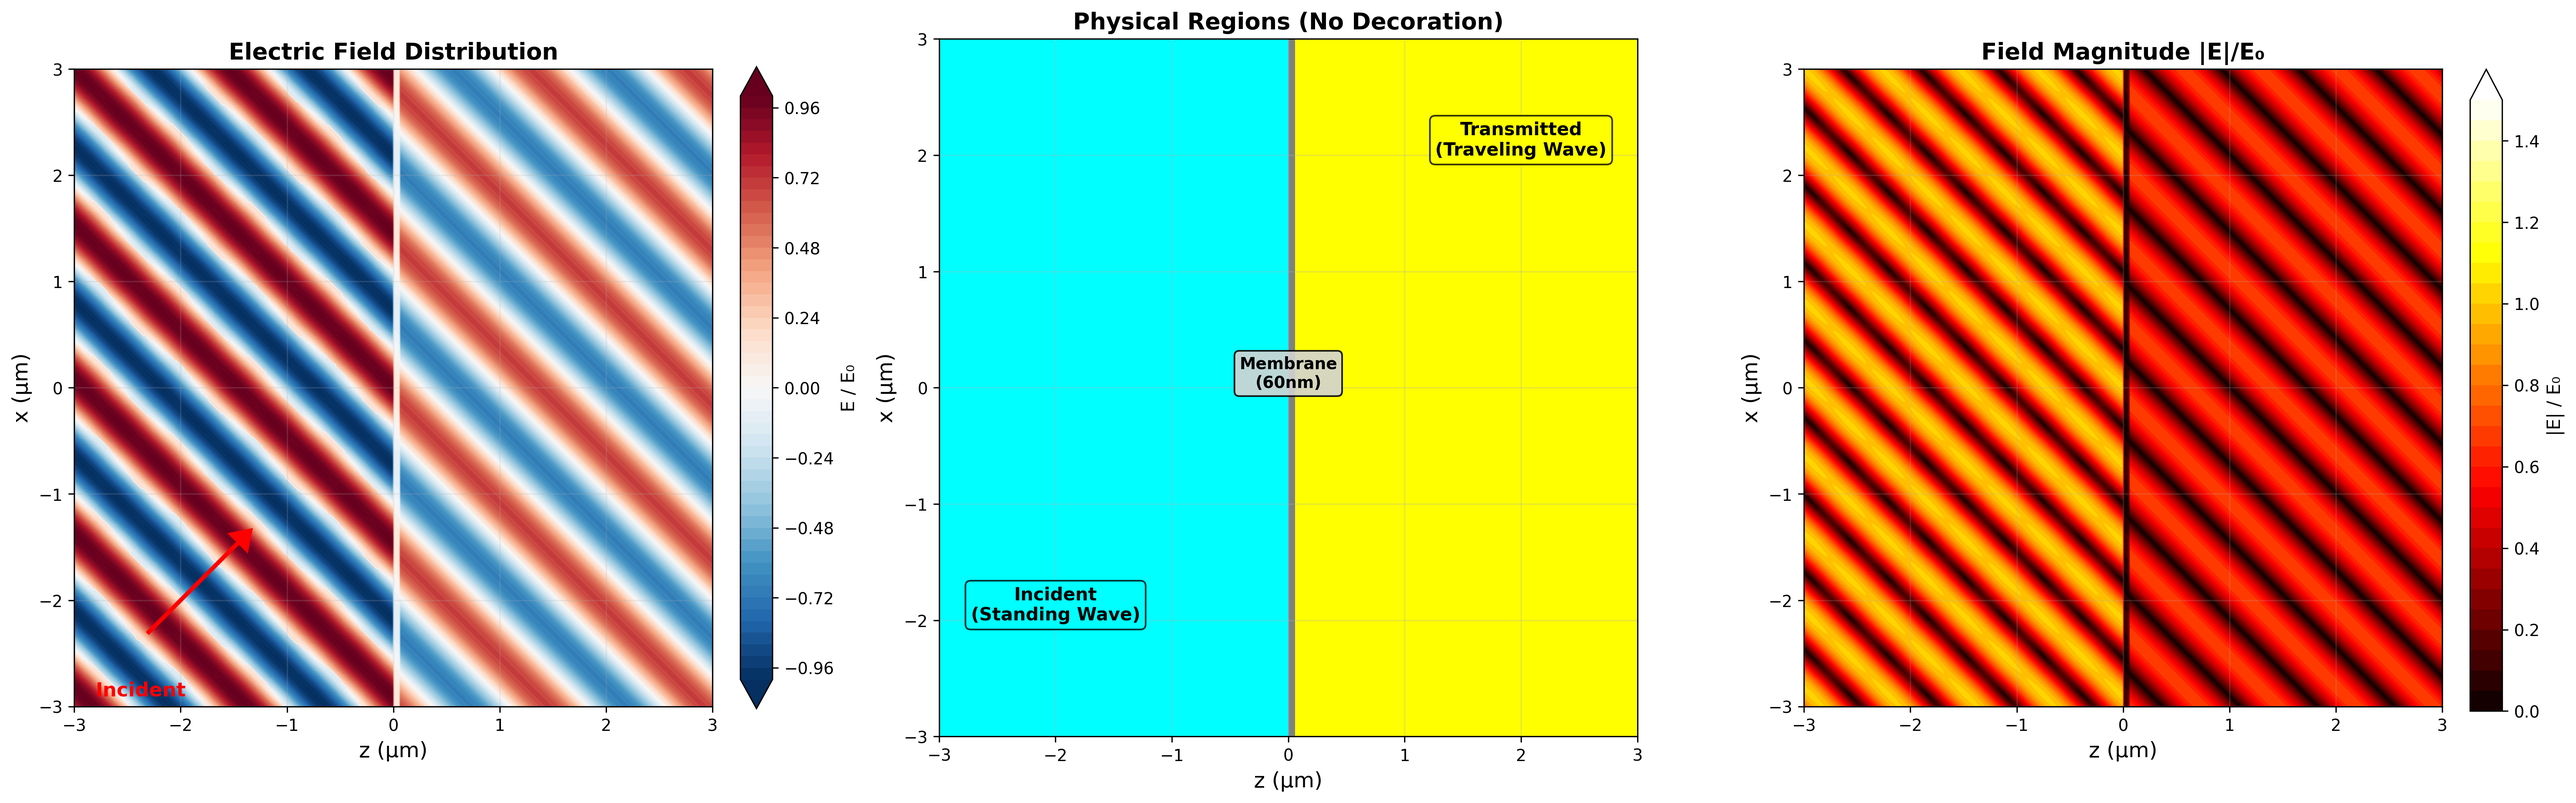
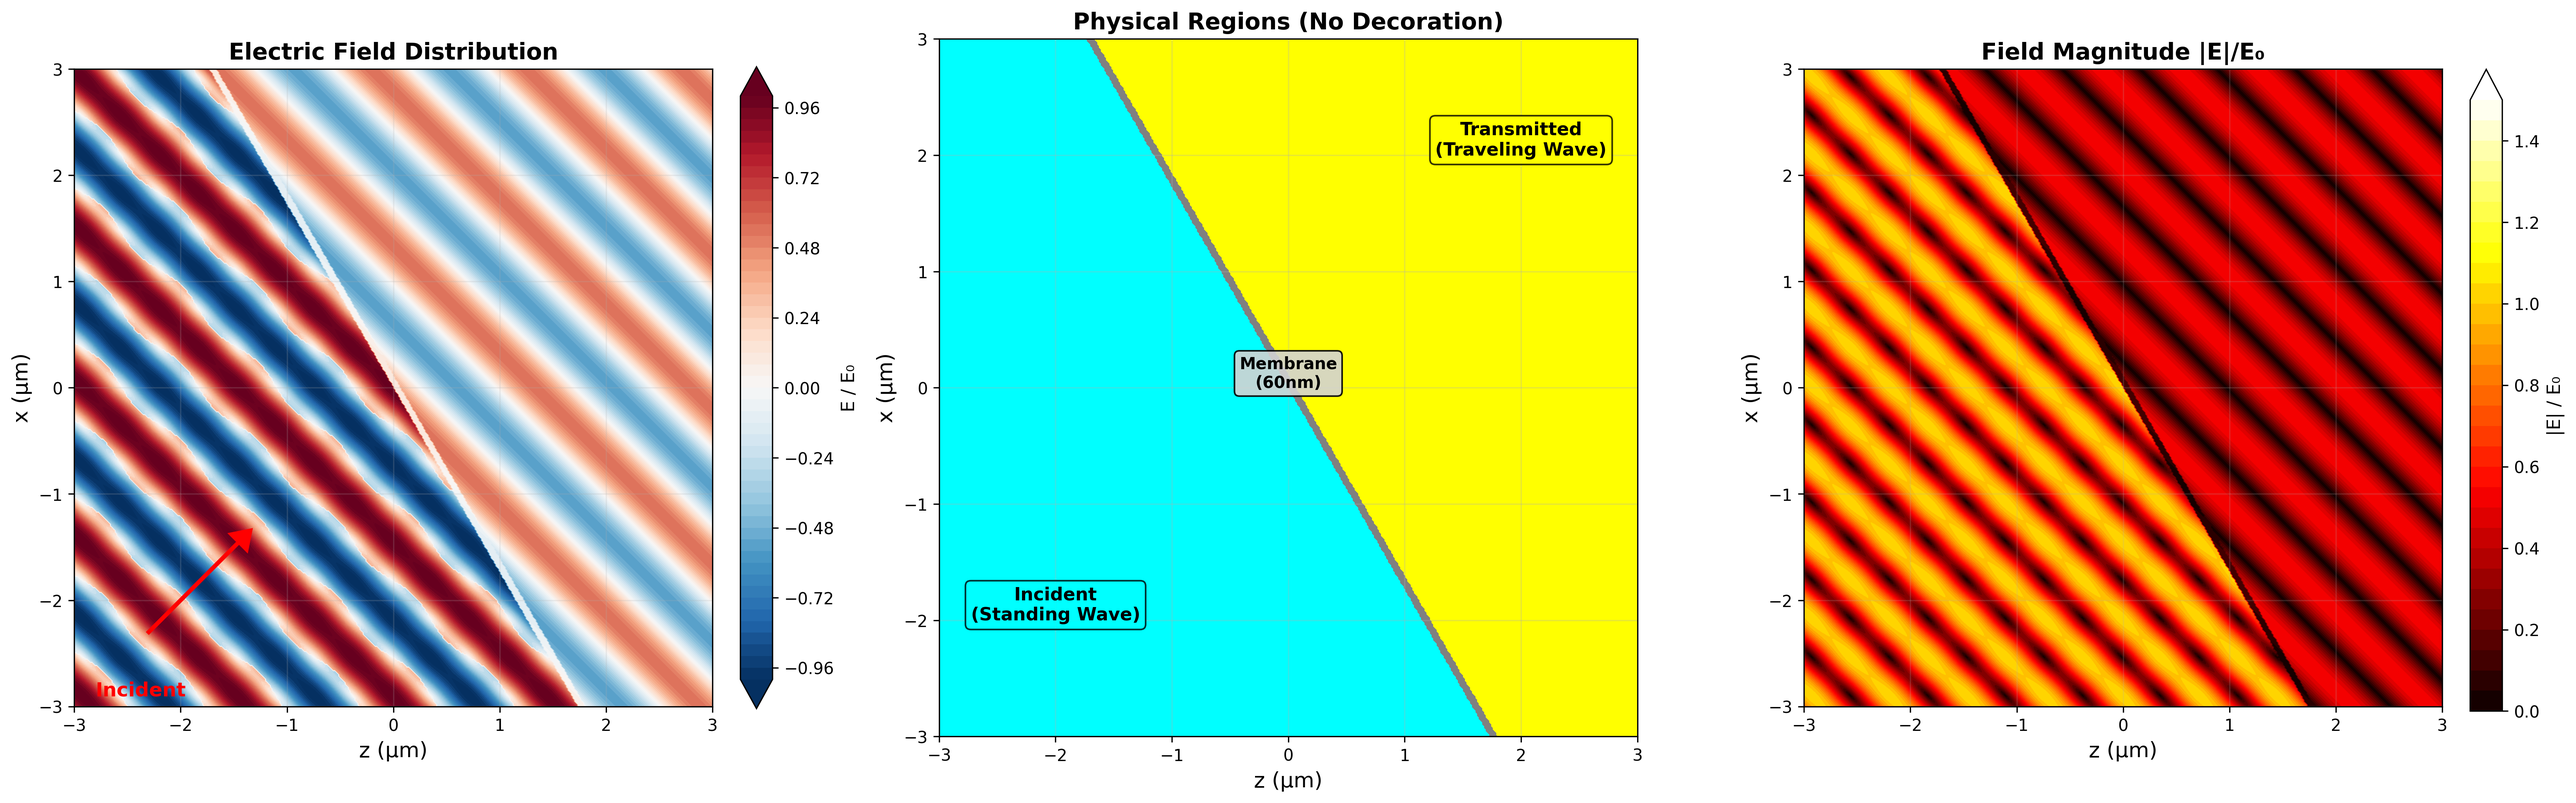
Add electric field calculation script and updated visualization results
- Add caculation_efield_fig2b.py: New script for figure 2b field calculations
- Update field_CLEAN_VERSION.png: Refreshed electromagnetic field visualization
- Add field_final_correct.png: Corrected field visualization output
- Update test1.py: Adjust theta_foil parameter from 0 to 30 degrees

🤖 Generated with [Claude Code](https://claude.com/claude-code)

diff --git a/caculation_efield_fig2b.py b/caculation_efield_fig2b.py
@@ -1,0 +1,214 @@
+import numpy as np
+import matplotlib.pyplot as plt
+
+# 物理参数
+c = 299792458.0
+WAVELENGTH = 1030e-9
+E0 = 1e9
+n = 3.6
+d = 60e-9
+
+# 关键配置：让薄膜接近垂直，激光斜入射
+theta_foil = 35    # 薄膜法向几乎水平 → 薄膜接近垂直
+theta_laser = 65   # 激光从左下斜入射
+
+def fresnel_p(theta_in, n):
+    """p偏振Fresnel系数"""
+    cos_i = np.cos(theta_in)
+    sin_i = np.sin(theta_in)
+    sin_t = sin_i / n
+    
+    if abs(sin_t) > 1:
+        return -1.0, 0.0
+    
+    cos_t = np.sqrt(1 - sin_t**2)
+    r = (n * cos_i - cos_t) / (n * cos_i + cos_t)
+    t = 2 * cos_i / (n * cos_i + cos_t)
+    
+    return r, t
+
+def calc_field_final(X, Z):
+    """
+    最终版本：确保右侧无波节
+    """
+    theta_f = np.radians(theta_foil)
+    theta_l = np.radians(theta_laser)
+    
+    omega = 2 * np.pi * c / WAVELENGTH
+    k0 = omega / c
+    
+    # 入射波矢
+    kx_in = k0 * np.sin(theta_l)
+    kz_in = k0 * np.cos(theta_l)
+    k_in = np.array([kx_in, kz_in])
+    
+    # 薄膜法向（theta_foil大时接近水平）
+    nx = np.sin(theta_f)
+    nz = np.cos(theta_f)
+    n_foil = np.array([nx, nz])
+    
+    # 计算入射角
+    cos_theta_in = abs(np.dot(k_in, n_foil)) / k0
+    theta_in = np.arccos(np.clip(cos_theta_in, 0, 1))
+    
+    # Fresnel系数（含多次反射）
+    r12, t12 = fresnel_p(theta_in, n)
+    
+    sin_t = np.sin(theta_in) / n
+    cos_t = np.sqrt(1 - sin_t**2)
+    theta_t = np.arcsin(sin_t)
+    
+    r21, t21 = fresnel_p(theta_t, 1/n)
+    
+    # 多次反射总系数
+    phi = 2 * n * k0 * d * cos_t
+    denom = 1 - r21**2 * np.exp(1j * phi)
+    r_eff = r12 + t12 * t21 * r21 * np.exp(1j * phi) / denom
+    t_eff = t12 * t21 * np.exp(1j * phi/2) / denom
+    
+    # 点到薄膜的距离（薄膜前表面在原点）
+    dist = X * nx + Z * nz
+    
+    # 严格区域划分
+    left = (dist < -1e-10)          # 左侧：入射+反射
+    right = (dist > d + 1e-10)      # 右侧：仅透射
+    membrane = ~left & ~right       # 薄膜
+    
+    # 初始化
+    E = np.zeros_like(X, dtype=complex)
+    
+    # ==========================================
+    # 左侧：入射波 + 反射波（驻波）
+    # ==========================================
+    # 入射波相位
+    phase_in = kx_in * X + kz_in * Z
+    E_in = E0 * np.exp(1j * phase_in)
+    
+    # 反射波矢（关于法线镜像 - 这是关键！）
+    k_dot_n = np.dot(k_in, n_foil)
+    k_ref = k_in - 2 * k_dot_n * n_foil
+    kx_ref = k_ref[0]
+    kz_ref = k_ref[1]
+    
+    phase_ref = kx_ref * X + kz_ref * Z
+    E_ref = r_eff * E0 * np.exp(1j * phase_ref)
+    
+    E[left] = E_in[left] + E_ref[left]
+    
+    # ==========================================
+    # 薄膜内：折射场（考虑多次反射）
+    # ==========================================
+    # 在薄膜内，需要使用折射后的波矢
+    # 折射定律：平行于界面的分量保持不变
+    # k_parallel = k0 * sin(theta_in)
+    # 在薄膜内：k_perp = n*k0*cos(theta_t)
+
+    # 方法：直接用入射波矢和折射率计算薄膜内的场
+    # 注意这是简化，实际应该考虑折射后的传播方向
+    k_membrane = n * k0
+    phase_mem = k_membrane * (kx_in/k0 * X + kz_in/k0 * Z)
+
+    # 薄膜内有入射和多次反射的叠加，这里用有效透射系数
+    E[membrane] = t12 * E0 * np.exp(1j * phase_mem[membrane])
+
+    # ==========================================
+    # 右侧：仅透射波（行波 - 不应有波节！）
+    # ==========================================
+    # 关键：透射波应该是纯行波，相位连续
+    # 考虑通过薄膜的总相位变化
+    phase_trans = kx_in * X + kz_in * Z
+    E[right] = t_eff * E0 * np.exp(1j * phase_trans[right])
+    
+    return np.real(E), left, membrane, right
+
+
+# 生成网格 (修正：确保坐标系一致)
+x = np.linspace(-2e-6, 2e-6, 1000)
+z = np.linspace(-2e-6, 2e-6, 1000)
+Z, X = np.meshgrid(z, x)  # 注意：Z对应横轴，X对应纵轴
+
+print(f"计算场分布（薄膜倾角={theta_foil}°）...")
+E_field, m_left, m_mem, m_right = calc_field_final(X, Z)
+
+# 归一化
+E_norm = E_field / E0
+
+# 绘图
+fig, axes = plt.subplots(1, 2, figsize=(18, 9))
+
+# 左图：电场分布
+ax = axes[0]
+im = ax.imshow(E_norm, extent=[-2, 2, -2, 2],
+               cmap='RdBu_r', vmin=-1.5, vmax=1.5,
+               aspect='equal', origin='lower', 
+               interpolation='bilinear')
+
+# 画薄膜位置
+theta_f_rad = np.radians(theta_foil)
+z_line = np.linspace(-3, 3, 100)
+x_line = -z_line * np.cos(theta_f_rad) / np.sin(theta_f_rad)
+ax.plot(z_line, x_line, 'k--', linewidth=3, alpha=0.9)
+
+# 激光方向箭头
+theta_l_rad = np.radians(theta_laser)
+ax.arrow(-1.5, -1.5, 
+         0.5*np.sin(theta_l_rad), 0.5*np.cos(theta_l_rad),
+         head_width=0.12, head_length=0.08, 
+         fc='red', ec='red', linewidth=2, zorder=10)
+ax.text(-1.6, -1.7, 'Laser', fontsize=12, color='red', fontweight='bold')
+
+ax.set_xlabel('z (μm)', fontsize=14, fontweight='bold')
+ax.set_ylabel('x (μm)', fontsize=14, fontweight='bold')
+ax.set_title(f'Electric Field (θ_foil={theta_foil}°, θ_laser={theta_laser}°)', 
+             fontsize=14, fontweight='bold')
+ax.set_xlim(-2, 2)
+ax.set_ylim(-2, 2)
+ax.grid(True, alpha=0.2)
+
+cbar = plt.colorbar(im, ax=ax, label='E / E₀', fraction=0.046, pad=0.04)
+
+# 右图：区域验证
+ax = axes[1]
+region = np.zeros_like(X)
+region[m_left] = 1
+region[m_mem] = 2
+region[m_right] = 3
+
+from matplotlib.colors import ListedColormap
+cmap_reg = ListedColormap(['white', 'cyan', 'gray', 'yellow'])
+im2 = ax.contourf(Z*1e6, X*1e6, region,
+                  levels=[0, 0.5, 1.5, 2.5, 3.5],
+                  cmap=cmap_reg)
+
+ax.plot(z_line, x_line, 'k--', linewidth=3)
+
+ax.text(-1.3, 0, 'LEFT\n(Standing\nWave)', fontsize=12,
+        bbox=dict(boxstyle='round', facecolor='cyan', alpha=0.7),
+        ha='center', fontweight='bold')
+ax.text(1.3, 0, 'RIGHT\n(Traveling\nWave)', fontsize=12,
+        bbox=dict(boxstyle='round', facecolor='yellow', alpha=0.7),
+        ha='center', fontweight='bold')
+
+ax.set_xlabel('z (μm)', fontsize=14)
+ax.set_ylabel('x (μm)', fontsize=14)
+ax.set_title('Region Verification', fontsize=14, fontweight='bold')
+ax.set_xlim(-2, 2)
+ax.set_ylim(-2, 2)
+ax.set_aspect('equal')
+ax.grid(True, alpha=0.3)
+
+plt.tight_layout()
+plt.savefig('field_final_correct.png', dpi=300, bbox_inches='tight')
+plt.show()
+
+# 验证右侧是否有零点
+right_field = E_norm[m_right]
+n_zeros = np.sum(np.abs(right_field) < 0.05)
+print(f"\n✓ 区域统计:")
+print(f"  左侧: {np.sum(m_left):,} 像素")
+print(f"  薄膜: {np.sum(m_mem):,} 像素")
+print(f"  右侧: {np.sum(m_right):,} 像素")
+print(f"\n验证右侧（透射区）:")
+print(f"  场强范围: [{right_field.min():.3f}, {right_field.max():.3f}]")
+print(f"  接近零的点: {n_zeros} ({100*n_zeros/np.sum(m_right):.2f}%)")
+print(f"  → 如果这个比例很小(<5%)，说明右侧没有波节 ✓")

diff --git a/test1.py b/test1.py
@@ -9,7 +9,7 @@ WAVELENGTH = 1030e-9
 E0 = 1e9
 REFRACTIVE_INDEX = 3.6
 MEMBRANE_THICKNESS = 60e-9
-theta_foil = 0   # ✓ 修复：使用θ_foil=0°让条纹平行薄膜，产生块状图样
+theta_foil = 30   # ✓ 修复：使用θ_foil=0°让条纹平行薄膜，产生块状图样
 theta_laser = 45
 t_snapshot = 0  # ✓ 修复：使用t=0看静态干涉，而不是300fs（87个周期）
 
